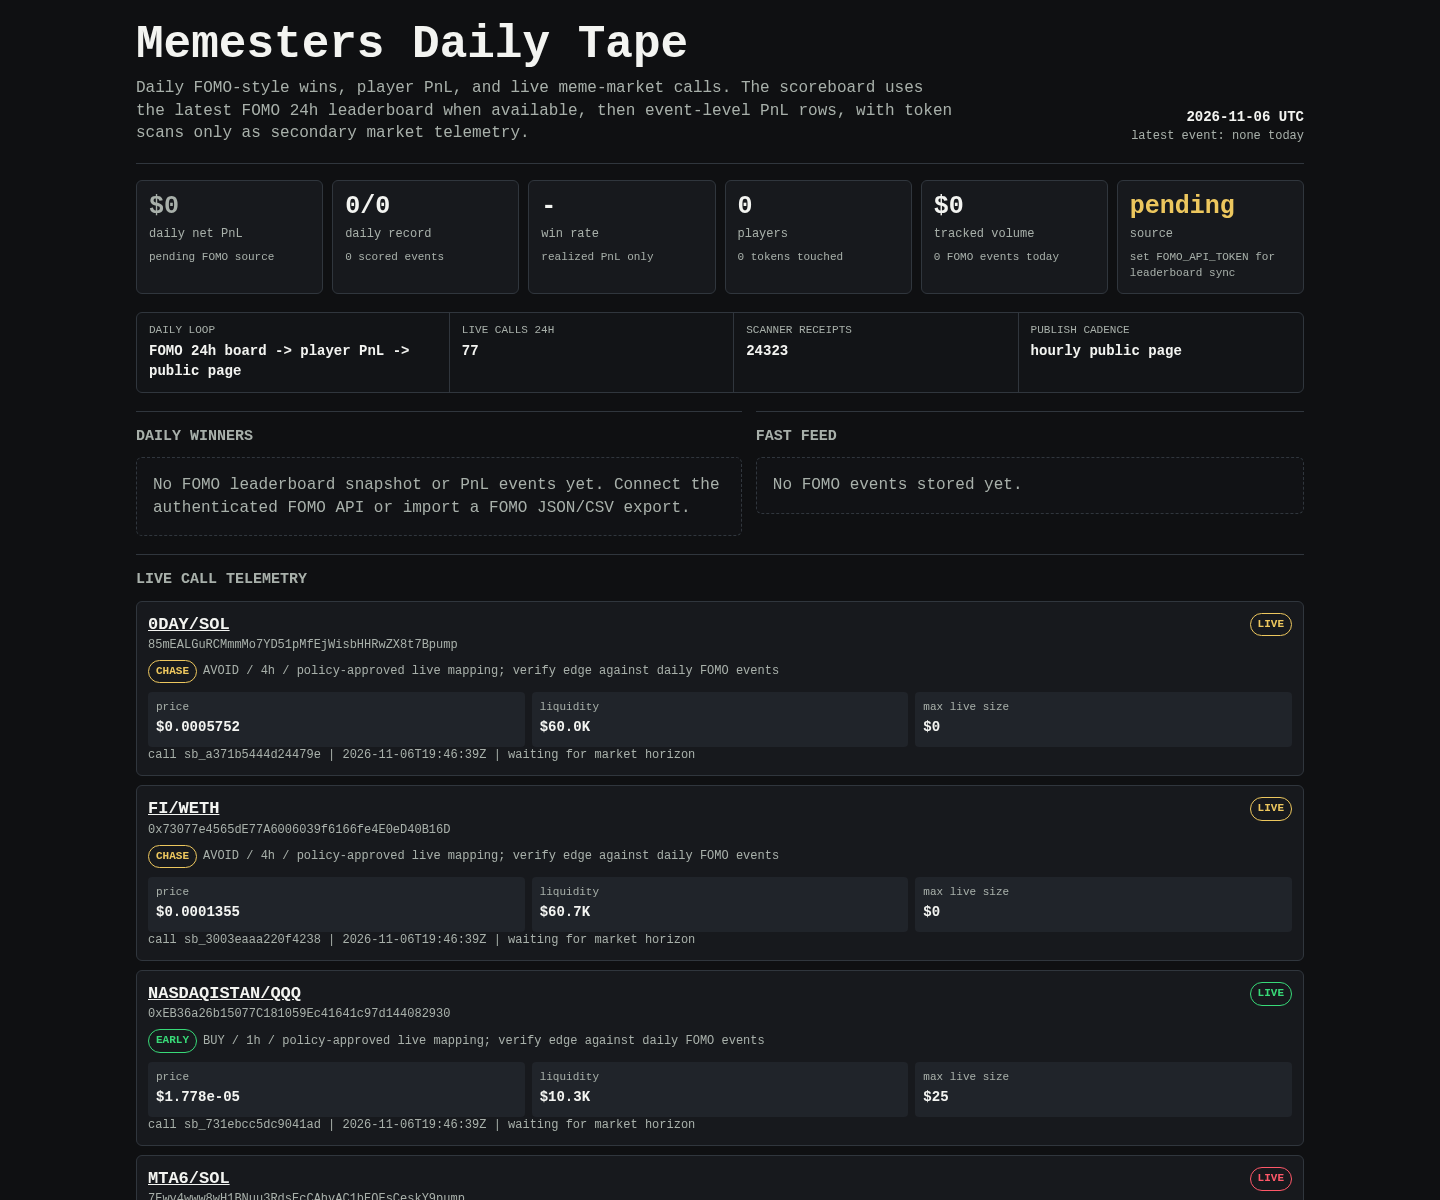
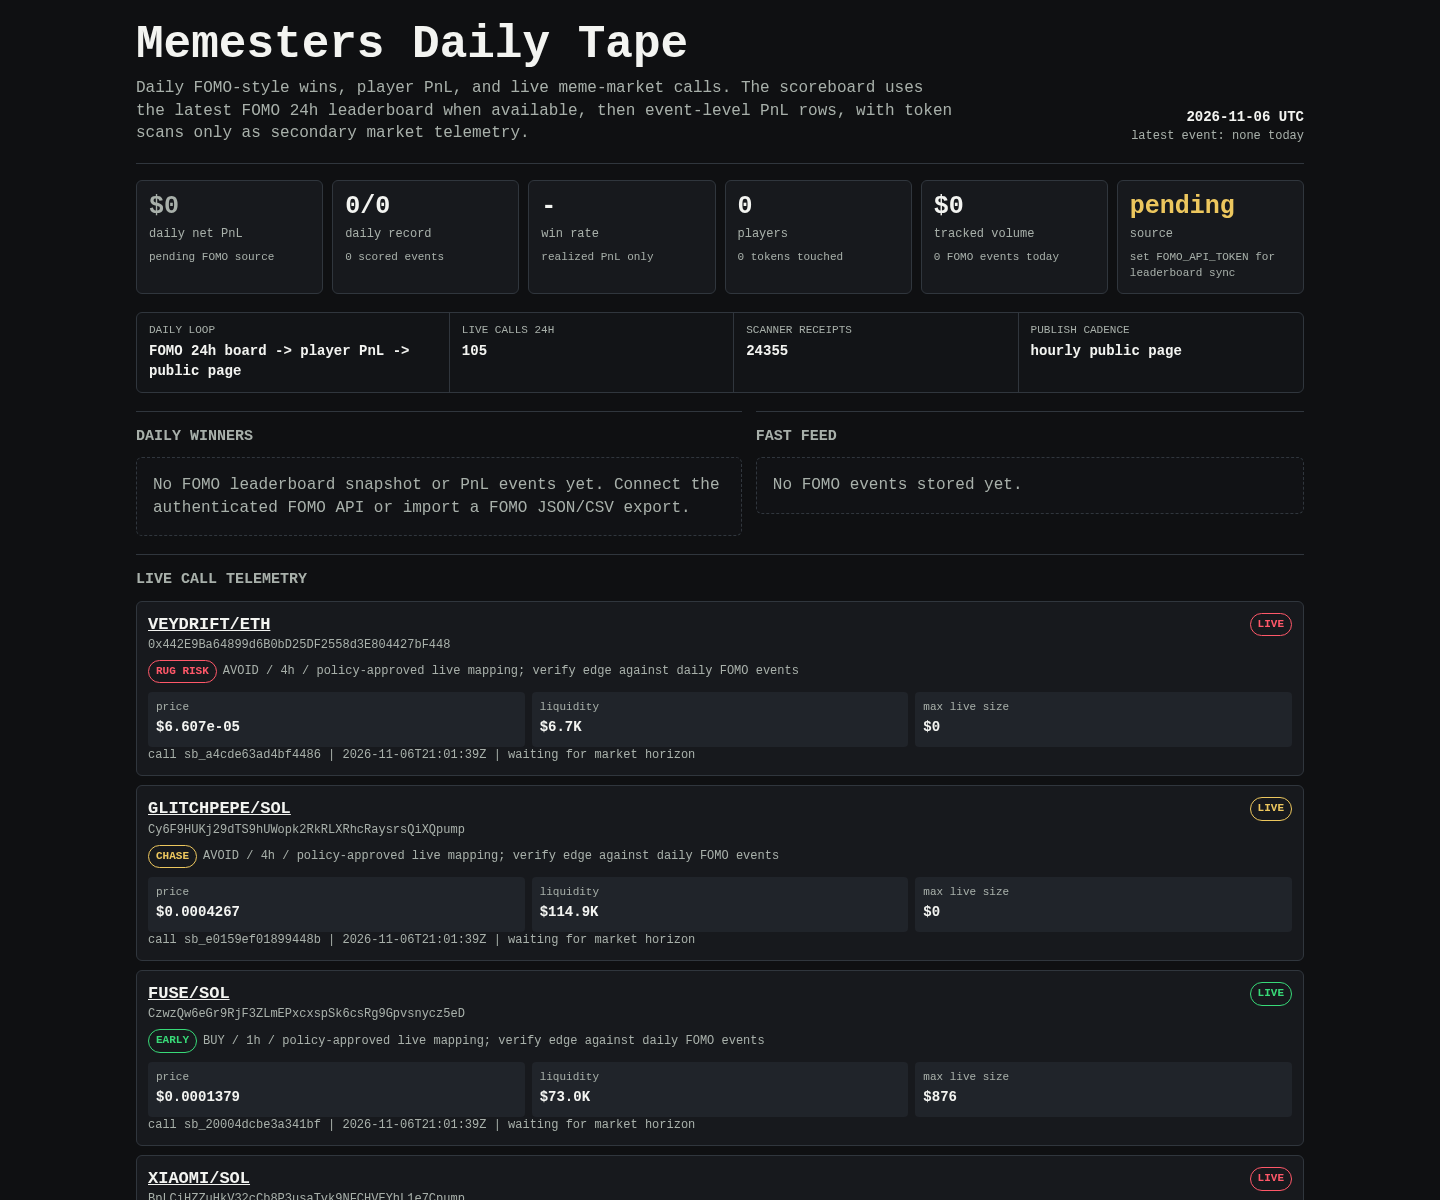
Update Memesters scoreboard

diff --git a/memesters/index.html b/memesters/index.html
@@ -149,8 +149,8 @@
 
     <div class="rail" aria-label="live operating loop">
       <div><span>daily loop</span><b>FOMO 24h board -> player PnL -> public page</b></div>
-      <div><span>live calls 24h</span><b>77</b></div>
-      <div><span>scanner receipts</span><b>24323</b></div>
+      <div><span>live calls 24h</span><b>105</b></div>
+      <div><span>scanner receipts</span><b>24355</b></div>
       <div><span>publish cadence</span><b>hourly public page</b></div>
     </div>
 
@@ -171,71 +171,8 @@
     <article class="receipt">
       <div class="receipt-head">
         <div>
-          <div class="pair"><a href="https://dexscreener.com/solana/6qlmg6pz7esjvz3i7mp4arqknlkdy4ncanzsu8nnnofa">0DAY/SOL</a></div>
-          <div class="addr">85mEALGuRCMmmMo7YD51pMfEjWisbHHRwZX8t7Bpump</div>
-          <div class="addr policy-line">
-            <span class="badge chase">CHASE</span>
-            <span>AVOID / 4h / policy-approved live mapping; verify edge against daily FOMO events</span>
-          </div>
-        </div>
-        <span class="badge chase">LIVE</span>
-      </div>
-      <div class="receipt-grid">
-        <div class="kv"><span>price</span><b>$0.0005752</b></div>
-        <div class="kv"><span>liquidity</span><b>$60.0K</b></div>
-        <div class="kv"><span>max live size</span><b>$0</b></div>
-      </div>
-      <div class="outcomes">call sb_a371b5444d24479e | 2026-11-06T19:46:39Z | waiting for market horizon</div>
-    </article>
-    
-
-    <article class="receipt">
-      <div class="receipt-head">
-        <div>
-          <div class="pair"><a href="https://dexscreener.com/robinhood/0xab6d9626d28baa84ff02587d4f463822f40a7e1a">FI/WETH</a></div>
-          <div class="addr">0x73077e4565dE77A6006039f6166fe4E0eD40B16D</div>
-          <div class="addr policy-line">
-            <span class="badge chase">CHASE</span>
-            <span>AVOID / 4h / policy-approved live mapping; verify edge against daily FOMO events</span>
-          </div>
-        </div>
-        <span class="badge chase">LIVE</span>
-      </div>
-      <div class="receipt-grid">
-        <div class="kv"><span>price</span><b>$0.0001355</b></div>
-        <div class="kv"><span>liquidity</span><b>$60.7K</b></div>
-        <div class="kv"><span>max live size</span><b>$0</b></div>
-      </div>
-      <div class="outcomes">call sb_3003eaaa220f4238 | 2026-11-06T19:46:39Z | waiting for market horizon</div>
-    </article>
-    
-
-    <article class="receipt">
-      <div class="receipt-head">
-        <div>
-          <div class="pair"><a href="https://dexscreener.com/robinhood/0x27a168620f6b835f29ea9748b88d0796a9a02f3e811449eb06ac6a81d012bacc">NASDAQISTAN/QQQ</a></div>
-          <div class="addr">0xEB36a26b15077C181059Ec41641c97d144082930</div>
-          <div class="addr policy-line">
-            <span class="badge early">EARLY</span>
-            <span>BUY / 1h / policy-approved live mapping; verify edge against daily FOMO events</span>
-          </div>
-        </div>
-        <span class="badge early">LIVE</span>
-      </div>
-      <div class="receipt-grid">
-        <div class="kv"><span>price</span><b>$1.778e-05</b></div>
-        <div class="kv"><span>liquidity</span><b>$10.3K</b></div>
-        <div class="kv"><span>max live size</span><b>$25</b></div>
-      </div>
-      <div class="outcomes">call sb_731ebcc5dc9041ad | 2026-11-06T19:46:39Z | waiting for market horizon</div>
-    </article>
-    
-
-    <article class="receipt">
-      <div class="receipt-head">
-        <div>
-          <div class="pair"><a href="https://dexscreener.com/solana/fgfdumvdcglkcq4zeq11sgqhklbv3ew8pwybx1mum4ys">MTA6/SOL</a></div>
-          <div class="addr">7Ewy4www8wH1BNuu3RdsEcCAhvAC1bEQEsCeskY9pump</div>
+          <div class="pair"><a href="https://dexscreener.com/base/0xa48cdc0e5f4612b2400ea20aad0df45cdd3f51e1f7584d318239d217cef45c51">VEYDRIFT/ETH</a></div>
+          <div class="addr">0x442E9Ba64899d6B0bD25DF2558d3E804427bF448</div>
           <div class="addr policy-line">
             <span class="badge rug-risk">RUG RISK</span>
             <span>AVOID / 4h / policy-approved live mapping; verify edge against daily FOMO events</span>
@@ -244,19 +181,40 @@
         <span class="badge rug-risk">LIVE</span>
       </div>
       <div class="receipt-grid">
-        <div class="kv"><span>price</span><b>$1.889e-06</b></div>
-        <div class="kv"><span>liquidity</span><b>$2.0K</b></div>
+        <div class="kv"><span>price</span><b>$6.607e-05</b></div>
+        <div class="kv"><span>liquidity</span><b>$6.7K</b></div>
         <div class="kv"><span>max live size</span><b>$0</b></div>
       </div>
-      <div class="outcomes">call sb_a1a525da534f478d | 2026-11-06T19:46:39Z | waiting for market horizon</div>
+      <div class="outcomes">call sb_a4cde63ad4bf4486 | 2026-11-06T21:01:39Z | waiting for market horizon</div>
     </article>
     
 
     <article class="receipt">
       <div class="receipt-head">
         <div>
-          <div class="pair"><a href="https://dexscreener.com/solana/a9aovhkleehg2c5xjqcybxbbuexwkgum8f6xzhxwodft">CEILING/SOL</a></div>
-          <div class="addr">EFCLz5dNa7kjsGqEZ3QhaKNozcAgJChNP78koKyppump</div>
+          <div class="pair"><a href="https://dexscreener.com/solana/bc1zzhzqv1vpzjvsayvhthngsjhwayhq7ducwry95lex">GLITCHPEPE/SOL</a></div>
+          <div class="addr">Cy6F9HUKj29dTS9hUWopk2RkRLXRhcRaysrsQiXQpump</div>
+          <div class="addr policy-line">
+            <span class="badge chase">CHASE</span>
+            <span>AVOID / 4h / policy-approved live mapping; verify edge against daily FOMO events</span>
+          </div>
+        </div>
+        <span class="badge chase">LIVE</span>
+      </div>
+      <div class="receipt-grid">
+        <div class="kv"><span>price</span><b>$0.0004267</b></div>
+        <div class="kv"><span>liquidity</span><b>$114.9K</b></div>
+        <div class="kv"><span>max live size</span><b>$0</b></div>
+      </div>
+      <div class="outcomes">call sb_e0159ef01899448b | 2026-11-06T21:01:39Z | waiting for market horizon</div>
+    </article>
+    
+
+    <article class="receipt">
+      <div class="receipt-head">
+        <div>
+          <div class="pair"><a href="https://dexscreener.com/solana/b5ozhrdmdazrjodsjsl9eqw6fe9m46ag98bvxh3h1qni">FUSE/SOL</a></div>
+          <div class="addr">CzwzQw6eGr9RjF3ZLmEPxcxspSk6csRg9Gpvsnycz5eD</div>
           <div class="addr policy-line">
             <span class="badge early">EARLY</span>
             <span>BUY / 1h / policy-approved live mapping; verify edge against daily FOMO events</span>
@@ -265,19 +223,40 @@
         <span class="badge early">LIVE</span>
       </div>
       <div class="receipt-grid">
-        <div class="kv"><span>price</span><b>$2.6e-05</b></div>
-        <div class="kv"><span>liquidity</span><b>$11.4K</b></div>
-        <div class="kv"><span>max live size</span><b>$137</b></div>
+        <div class="kv"><span>price</span><b>$0.0001379</b></div>
+        <div class="kv"><span>liquidity</span><b>$73.0K</b></div>
+        <div class="kv"><span>max live size</span><b>$876</b></div>
       </div>
-      <div class="outcomes">call sb_7eb40632a4484806 | 2026-11-06T19:46:39Z | waiting for market horizon</div>
+      <div class="outcomes">call sb_20004dcbe3a341bf | 2026-11-06T21:01:39Z | waiting for market horizon</div>
     </article>
     
 
     <article class="receipt">
       <div class="receipt-head">
         <div>
-          <div class="pair"><a href="https://dexscreener.com/robinhood/0x3bc29f9be714bb5e231caf453ed9a0a24913589b">CAPY/WETH</a></div>
-          <div class="addr">0xe96e9Fc9A9F952f76AF14fC585A9625d25ed8304</div>
+          <div class="pair"><a href="https://dexscreener.com/solana/5cvaoennmqvgztwkuxfm5jsc7mywnun5ymeaqdptted3">XIAOMI/SOL</a></div>
+          <div class="addr">BpLCiHZZuHkV32cCb8P3usaTvk9NFCHVEYhL1e7Cpump</div>
+          <div class="addr policy-line">
+            <span class="badge rug-risk">RUG RISK</span>
+            <span>AVOID / 4h / policy-approved live mapping; verify edge against daily FOMO events</span>
+          </div>
+        </div>
+        <span class="badge rug-risk">LIVE</span>
+      </div>
+      <div class="receipt-grid">
+        <div class="kv"><span>price</span><b>$5.127e-06</b></div>
+        <div class="kv"><span>liquidity</span><b>$4.1K</b></div>
+        <div class="kv"><span>max live size</span><b>$0</b></div>
+      </div>
+      <div class="outcomes">call sb_716bab299a7943ac | 2026-11-06T21:01:39Z | waiting for market horizon</div>
+    </article>
+    
+
+    <article class="receipt">
+      <div class="receipt-head">
+        <div>
+          <div class="pair"><a href="https://dexscreener.com/solana/fxjkaiwb6b8yy4q6hyhchdiqfhhquud4puvjoydohwnj">sexcoin/Fapcoin</a></div>
+          <div class="addr">HGHJCdysTaaYDJKwwQ3UmcodCw9xjpfFDvcShVVBpump</div>
           <div class="addr policy-line">
             <span class="badge early">EARLY</span>
             <span>BUY / 1h / policy-approved live mapping; verify edge against daily FOMO events</span>
@@ -286,32 +265,32 @@
         <span class="badge early">LIVE</span>
       </div>
       <div class="receipt-grid">
-        <div class="kv"><span>price</span><b>$1.602e-06</b></div>
-        <div class="kv"><span>liquidity</span><b>$2.3K</b></div>
-        <div class="kv"><span>max live size</span><b>$25</b></div>
+        <div class="kv"><span>price</span><b>$5.35e-05</b></div>
+        <div class="kv"><span>liquidity</span><b>$17.7K</b></div>
+        <div class="kv"><span>max live size</span><b>$173</b></div>
       </div>
-      <div class="outcomes">call sb_71a69f6ab1fd4ec5 | 2026-11-06T19:46:39Z | waiting for market horizon</div>
+      <div class="outcomes">call sb_9bd37b75947a474e | 2026-11-06T21:01:38Z | waiting for market horizon</div>
     </article>
     
 
     <article class="receipt">
       <div class="receipt-head">
         <div>
-          <div class="pair"><a href="https://dexscreener.com/ton/eqc4qyri_brl26fed7p048g6abft0zbe8aq4isxnujysfxox">TELECAT/GRAM</a></div>
-          <div class="addr">EQAmVO2-AdXhgP3LK9wEpqTz_f-D44NSGso3qKU2rBaBvMaN</div>
+          <div class="pair"><a href="https://dexscreener.com/robinhood/0xdfa8ef5b0549c609704970062d5071fb42a7845c3c6913e19b2733b7eba4c2e6">WIF/SPY</a></div>
+          <div class="addr">0x5dBd791069B347782B55F2D0b2E3E97179822DE2</div>
           <div class="addr policy-line">
-            <span class="badge early">EARLY</span>
-            <span>BUY / 1h / policy-approved live mapping; verify edge against daily FOMO events</span>
+            <span class="badge chase">CHASE</span>
+            <span>AVOID / 4h / policy-approved live mapping; verify edge against daily FOMO events</span>
           </div>
         </div>
-        <span class="badge early">LIVE</span>
+        <span class="badge chase">LIVE</span>
       </div>
       <div class="receipt-grid">
-        <div class="kv"><span>price</span><b>$1.457e-05</b></div>
-        <div class="kv"><span>liquidity</span><b>$6.3K</b></div>
-        <div class="kv"><span>max live size</span><b>$25</b></div>
+        <div class="kv"><span>price</span><b>$1.974e-05</b></div>
+        <div class="kv"><span>liquidity</span><b>$12.9K</b></div>
+        <div class="kv"><span>max live size</span><b>$0</b></div>
       </div>
-      <div class="outcomes">call sb_cbc65d1fb753469e | 2026-11-06T19:46:38Z | waiting for market horizon</div>
+      <div class="outcomes">call sb_51d17a9de96f4e27 | 2026-11-06T21:01:38Z | waiting for market horizon</div>
     </article>
     
 
@@ -321,26 +300,26 @@
           <div class="pair"><a href="https://dexscreener.com/robinhood/0x498f4bec66f46a0f47c240c99750aab0b06cc2fe8106a3b79d9b2adc4ee63504">CADDY/ETH</a></div>
           <div class="addr">0x476D9E01e2aCA0Fd57d3D3331f73332810E8230c</div>
           <div class="addr policy-line">
-            <span class="badge chase">CHASE</span>
-            <span>AVOID / 4h / policy-approved live mapping; verify edge against daily FOMO events</span>
+            <span class="badge early">EARLY</span>
+            <span>BUY / 1h / policy-approved live mapping; verify edge against daily FOMO events</span>
           </div>
         </div>
-        <span class="badge chase">LIVE</span>
+        <span class="badge early">LIVE</span>
       </div>
       <div class="receipt-grid">
-        <div class="kv"><span>price</span><b>$1.869e-05</b></div>
-        <div class="kv"><span>liquidity</span><b>$11.9K</b></div>
-        <div class="kv"><span>max live size</span><b>$0</b></div>
+        <div class="kv"><span>price</span><b>$2.516e-05</b></div>
+        <div class="kv"><span>liquidity</span><b>$13.9K</b></div>
+        <div class="kv"><span>max live size</span><b>$50</b></div>
       </div>
-      <div class="outcomes">call sb_1e23ad8ed72b4a07 | 2026-11-06T19:46:38Z | waiting for market horizon</div>
+      <div class="outcomes">call sb_5cddd6a094e548a6 | 2026-11-06T20:46:18Z | waiting for market horizon</div>
     </article>
     
 
     <article class="receipt">
       <div class="receipt-head">
         <div>
-          <div class="pair"><a href="https://dexscreener.com/solana/cpsrdj3lb8ctaj6bnqqsw5mvqenvqqxzdfpwxz49vym5">Pooh/SOL</a></div>
-          <div class="addr">F1fvzeTbmPXFDFL26jEN3FHmk558kJSA1cYqNRANpump</div>
+          <div class="pair"><a href="https://dexscreener.com/solana/5pnmwqpcd2plbtqe4cwvgojh939xo5fgdce3zuny1j9j">LAURA/BTC</a></div>
+          <div class="addr">7NcM7x9PEjB2qJTgRgNvVwnnPPZ6wAdXRXWa8Cqfboob</div>
           <div class="addr policy-line">
             <span class="badge rug-risk">RUG RISK</span>
             <span>AVOID / 4h / policy-approved live mapping; verify edge against daily FOMO events</span>
@@ -349,32 +328,53 @@
         <span class="badge rug-risk">LIVE</span>
       </div>
       <div class="receipt-grid">
-        <div class="kv"><span>price</span><b>$3.509e-06</b></div>
-        <div class="kv"><span>liquidity</span><b>$3.3K</b></div>
+        <div class="kv"><span>price</span><b>$1.105e-05</b></div>
+        <div class="kv"><span>liquidity</span><b>$6.7K</b></div>
         <div class="kv"><span>max live size</span><b>$0</b></div>
       </div>
-      <div class="outcomes">call sb_abfcb4b0067e4c32 | 2026-11-06T19:16:19Z | <span class="positive">15m -25.3% / +$25 if followed</span></div>
+      <div class="outcomes">call sb_0f5e04e360b242de | 2026-11-06T20:46:18Z | waiting for market horizon</div>
     </article>
     
 
     <article class="receipt">
       <div class="receipt-head">
         <div>
-          <div class="pair"><a href="https://dexscreener.com/robinhood/0x8b3e7c52a3e1b6aa48af613760f2b026c413e80362797bbbefbd7def48f0a67f">HYPE/ETH</a></div>
-          <div class="addr">0x8231fdc77207Ede2455259e2d391Eb4f026581f4</div>
+          <div class="pair"><a href="https://dexscreener.com/base/0xa48cdc0e5f4612b2400ea20aad0df45cdd3f51e1f7584d318239d217cef45c51">VEYDRIFT/ETH</a></div>
+          <div class="addr">0x442E9Ba64899d6B0bD25DF2558d3E804427bF448</div>
           <div class="addr policy-line">
-            <span class="badge early">EARLY</span>
-            <span>BUY / 1h / policy-approved live mapping; verify edge against daily FOMO events</span>
+            <span class="badge chase">CHASE</span>
+            <span>AVOID / 4h / policy-approved live mapping; verify edge against daily FOMO events</span>
           </div>
         </div>
-        <span class="badge early">LIVE</span>
+        <span class="badge chase">LIVE</span>
       </div>
       <div class="receipt-grid">
-        <div class="kv"><span>price</span><b>$0.0001089</b></div>
-        <div class="kv"><span>liquidity</span><b>$28.8K</b></div>
-        <div class="kv"><span>max live size</span><b>$191</b></div>
+        <div class="kv"><span>price</span><b>$6.757e-05</b></div>
+        <div class="kv"><span>liquidity</span><b>$6.7K</b></div>
+        <div class="kv"><span>max live size</span><b>$0</b></div>
       </div>
-      <div class="outcomes">call sb_83a4d3cf015d4aeb | 2026-11-06T19:16:19Z | <span class="positive">15m +51.3% / +$51 if followed</span></div>
+      <div class="outcomes">call sb_c63792e0a35f42bd | 2026-11-06T20:46:18Z | waiting for market horizon</div>
+    </article>
+    
+
+    <article class="receipt">
+      <div class="receipt-head">
+        <div>
+          <div class="pair"><a href="https://dexscreener.com/solana/bc1zzhzqv1vpzjvsayvhthngsjhwayhq7ducwry95lex">GLITCHPEPE/SOL</a></div>
+          <div class="addr">Cy6F9HUKj29dTS9hUWopk2RkRLXRhcRaysrsQiXQpump</div>
+          <div class="addr policy-line">
+            <span class="badge chase">CHASE</span>
+            <span>AVOID / 4h / policy-approved live mapping; verify edge against daily FOMO events</span>
+          </div>
+        </div>
+        <span class="badge chase">LIVE</span>
+      </div>
+      <div class="receipt-grid">
+        <div class="kv"><span>price</span><b>$0.0006138</b></div>
+        <div class="kv"><span>liquidity</span><b>$137.7K</b></div>
+        <div class="kv"><span>max live size</span><b>$0</b></div>
+      </div>
+      <div class="outcomes">call sb_40d15120e5b6472c | 2026-11-06T20:46:18Z | waiting for market horizon</div>
     </article>
     
     </section>
